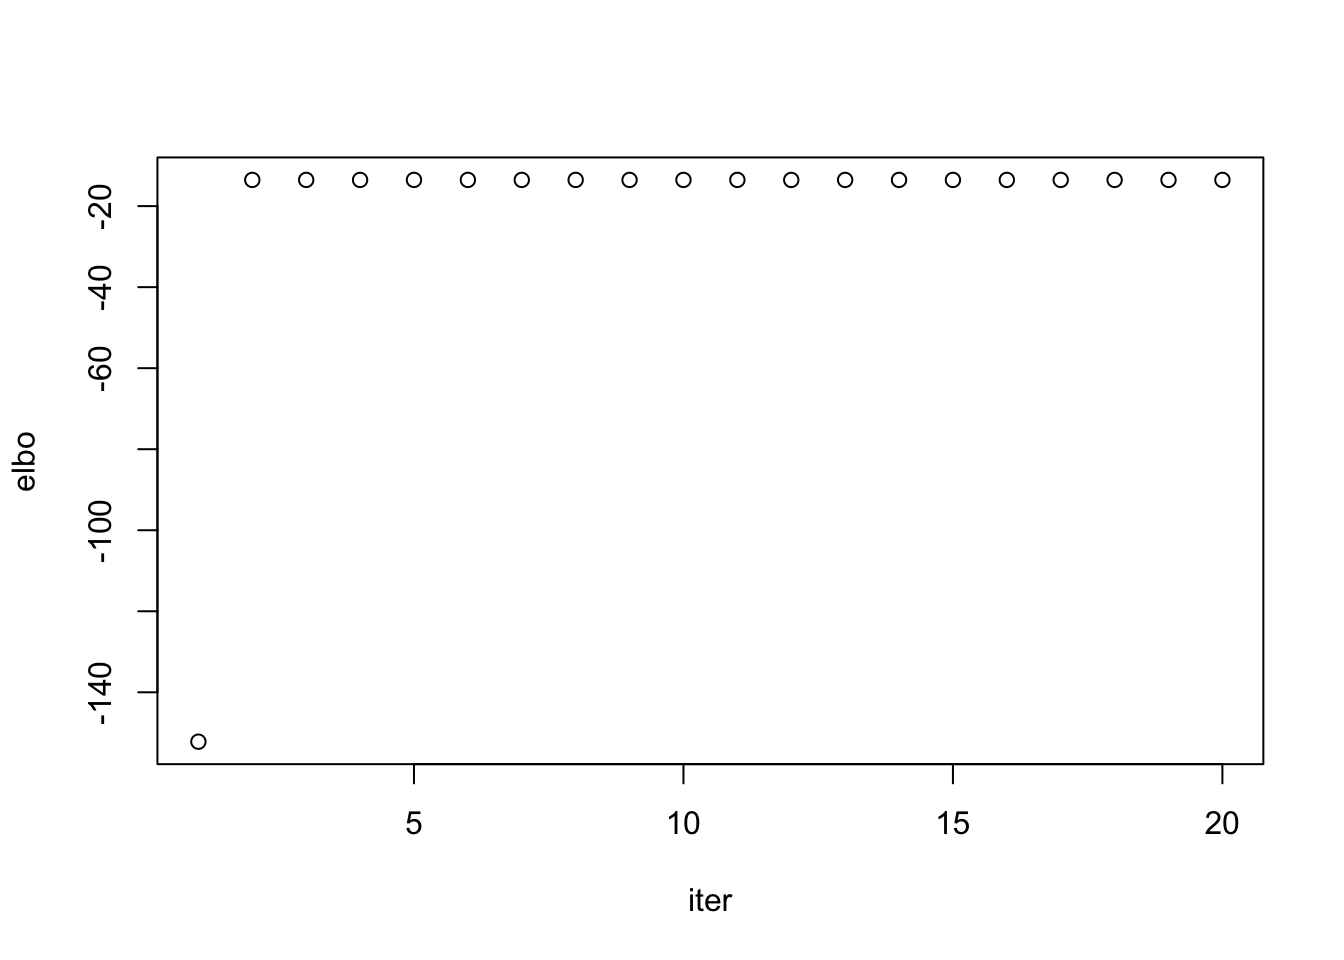
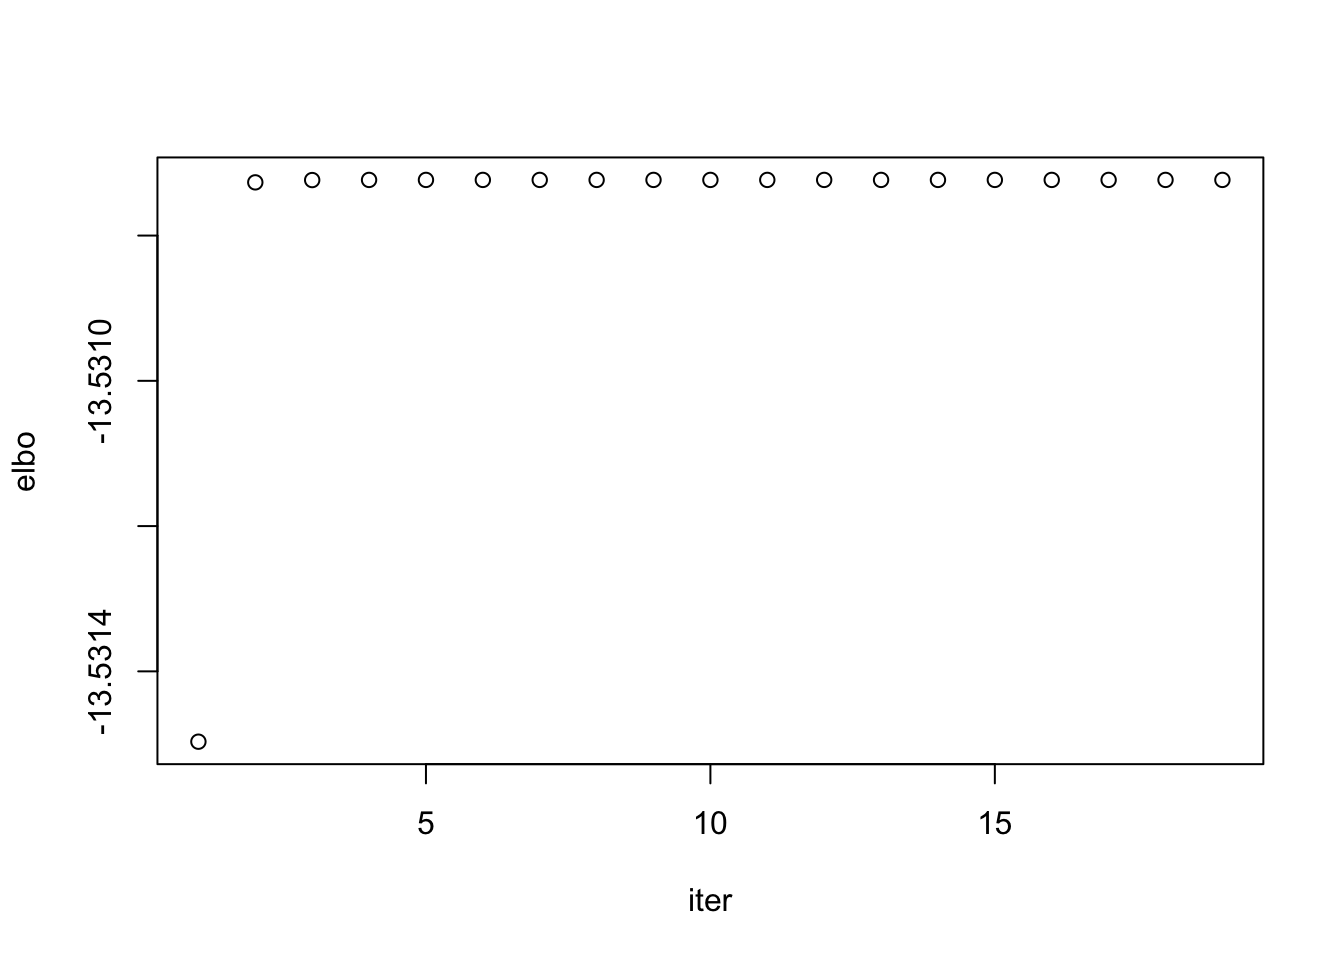
Build site.

diff --git a/docs/vi_poisson.html b/docs/vi_poisson.html
@@ -12,7 +12,7 @@
 <meta name="author" content="Yunqi Yang" />
 
 
-<title>Poisson_ser</title>
+<title>Poisson SER</title>
 
 <script src="site_libs/header-attrs-2.11/header-attrs.js"></script>
 <script src="site_libs/jquery-3.6.0/jquery-3.6.0.min.js"></script>
@@ -357,7 +357,7 @@ div.tocify {
 
 
 
-<h1 class="title toc-ignore">Poisson_ser</h1>
+<h1 class="title toc-ignore">Poisson SER</h1>
 <h4 class="author">Yunqi Yang</h4>
 <h4 class="date">5/2/2023</h4>
 
@@ -499,16 +499,16 @@ code/vi_poisson.R
 <div class="panel panel-default">
 <div class="panel-heading">
 <p class="panel-title">
-<a data-toggle="collapse" data-parent="#workflowr-checks" href="#strongRepositoryversionstrongahrefhttpsgithubcomyunqiyang0215survivalsusietreebb2de3625878aeae94a46305b9c50abcb13bb4bctargetblankbb2de36a"> <span class="glyphicon glyphicon-ok text-success" aria-hidden="true"></span> <strong>Repository version:</strong> <a href="https://github.com/yunqiyang0215/survival-susie/tree/bb2de3625878aeae94a46305b9c50abcb13bb4bc" target="_blank">bb2de36</a> </a>
+<a data-toggle="collapse" data-parent="#workflowr-checks" href="#strongRepositoryversionstrongahrefhttpsgithubcomyunqiyang0215survivalsusietree420b62315f176633e1db8b21d7dbdd77cd8cf3b8targetblank420b623a"> <span class="glyphicon glyphicon-ok text-success" aria-hidden="true"></span> <strong>Repository version:</strong> <a href="https://github.com/yunqiyang0215/survival-susie/tree/420b62315f176633e1db8b21d7dbdd77cd8cf3b8" target="_blank">420b623</a> </a>
 </p>
 </div>
[2 lines of base64/hex data omitted]
 <div class="panel-body">
 <p>
 Great! You are using Git for version control. Tracking code development and connecting the code version to the results is critical for reproducibility.
 </p>
 <p>
-The results in this page were generated with repository version <a href="https://github.com/yunqiyang0215/survival-susie/tree/bb2de3625878aeae94a46305b9c50abcb13bb4bc" target="_blank">bb2de36</a>. See the <em>Past versions</em> tab to see a history of the changes made to the R Markdown and HTML files.
+The results in this page were generated with repository version <a href="https://github.com/yunqiyang0215/survival-susie/tree/420b62315f176633e1db8b21d7dbdd77cd8cf3b8" target="_blank">420b623</a>. See the <em>Past versions</em> tab to see a history of the changes made to the R Markdown and HTML files.
 </p>
 <p>
 Note that you need to be careful to ensure that all relevant files for the analysis have been committed to Git prior to generating the results (you can use <code>wflow_publish</code> or <code>wflow_git_commit</code>). workflowr only checks the R Markdown file, but you know if there are other scripts or data files that it depends on. Below is the status of the Git repository when the results were generated:
@@ -576,6 +576,40 @@ Message
 </tr>
 </thead>
 <tbody>
+<tr>
+<td>
+Rmd
+</td>
+<td>
+<a href="https://github.com/yunqiyang0215/survival-susie/blob/420b62315f176633e1db8b21d7dbdd77cd8cf3b8/analysis/vi_poisson.Rmd" target="_blank">420b623</a>
+</td>
+<td>
+yunqiyang0215
+</td>
+<td>
+2023-05-04
+</td>
+<td>
+wflow_publish("analysis/vi_poisson.Rmd")
+</td>
+</tr>
+<tr>
+<td>
+html
+</td>
+<td>
+<a href="https://rawcdn.githack.com/yunqiyang0215/survival-susie/be72b9228244529606cc82db8a8cfee390ee96d3/docs/vi_poisson.html" target="_blank">be72b92</a>
+</td>
+<td>
+yunqiyang0215
+</td>
+<td>
+2023-05-04
+</td>
+<td>
+Build site.
+</td>
+</tr>
 <tr>
 <td>
 Rmd
@@ -666,8 +700,45 @@ tail(result$alpha)</code></pre>
 [18,] 0.03474685 0.05694682 0.06156505 0.03536832 0.03734782
 [19,] 0.03474685 0.05694683 0.06156505 0.03536832 0.03734782
 [20,] 0.03474685 0.05694683 0.06156505 0.03536832 0.03734782</code></pre>
-<pre class="r"><code>plot(result$elbo, xlab = &quot;iter&quot;, ylab = &quot;elbo&quot;)</code></pre>
+<pre class="r"><code>plot(result$elbo[-1], xlab = &quot;iter&quot;, ylab = &quot;elbo&quot;)</code></pre>
 <p><img src="figure/vi_poisson.Rmd/unnamed-chunk-4-1.png" width="672" style="display: block; margin: auto;" /></p>
+<p>
+<button type="button" class="btn btn-default btn-xs btn-workflowr btn-workflowr-fig" data-toggle="collapse" data-target="#fig-unnamed-chunk-4-1">
+Past versions of unnamed-chunk-4-1.png
+</button>
+</p>
+<div id="fig-unnamed-chunk-4-1" class="collapse">
+<div class="table-responsive">
+<table class="table table-condensed table-hover">
+<thead>
+<tr>
+<th>
+Version
+</th>
+<th>
+Author
+</th>
+<th>
+Date
+</th>
+</tr>
+</thead>
+<tbody>
+<tr>
+<td>
+<a href="https://github.com/yunqiyang0215/survival-susie/blob/be72b9228244529606cc82db8a8cfee390ee96d3/docs/figure/vi_poisson.Rmd/unnamed-chunk-4-1.png" target="_blank">be72b92</a>
+</td>
+<td>
+yunqiyang0215
+</td>
+<td>
+2023-05-04
+</td>
+</tr>
+</tbody>
+</table>
+</div>
+</div>
 </div>
 <div id="simulation-2" class="section level1">
 <h1>Simulation 2</h1>
@@ -748,8 +819,45 @@ tail(result$alpha)</code></pre>
 [18,] 0.01831634 0.01577252 0.004995734 0.01377199
 [19,] 0.01831634 0.01577252 0.004995734 0.01377199
 [20,] 0.01831634 0.01577252 0.004995734 0.01377199</code></pre>
-<pre class="r"><code>plot(result$elbo, xlab = &quot;iter&quot;, ylab = &quot;elbo&quot;)</code></pre>
+<pre class="r"><code>plot(result$elbo[-1], xlab = &quot;iter&quot;, ylab = &quot;elbo&quot;)</code></pre>
 <p><img src="figure/vi_poisson.Rmd/unnamed-chunk-7-1.png" width="672" style="display: block; margin: auto;" /></p>
+<p>
+<button type="button" class="btn btn-default btn-xs btn-workflowr btn-workflowr-fig" data-toggle="collapse" data-target="#fig-unnamed-chunk-7-1">
+Past versions of unnamed-chunk-7-1.png
+</button>
+</p>
+<div id="fig-unnamed-chunk-7-1" class="collapse">
+<div class="table-responsive">
+<table class="table table-condensed table-hover">
+<thead>
+<tr>
+<th>
+Version
+</th>
+<th>
+Author
+</th>
+<th>
+Date
+</th>
+</tr>
+</thead>
+<tbody>
+<tr>
+<td>
+<a href="https://github.com/yunqiyang0215/survival-susie/blob/be72b9228244529606cc82db8a8cfee390ee96d3/docs/figure/vi_poisson.Rmd/unnamed-chunk-7-1.png" target="_blank">be72b92</a>
+</td>
+<td>
+yunqiyang0215
+</td>
+<td>
+2023-05-04
+</td>
+</tr>
+</tbody>
+</table>
+</div>
+</div>
 </div>
 <div id="simulation-3" class="section level1">
 <h1>Simulation 3</h1>
@@ -830,8 +938,45 @@ tail(result$alpha)</code></pre>
 [18,] 0.03945907 0.05642541 0.02998278 0.06972517
 [19,] 0.03945907 0.05642541 0.02998278 0.06972517
 [20,] 0.03945907 0.05642541 0.02998278 0.06972517</code></pre>
-<pre class="r"><code>plot(result$elbo, xlab = &quot;iter&quot;, ylab = &quot;elbo&quot;)</code></pre>
+<pre class="r"><code>plot(result$elbo[-1], xlab = &quot;iter&quot;, ylab = &quot;elbo&quot;)</code></pre>
 <p><img src="figure/vi_poisson.Rmd/unnamed-chunk-10-1.png" width="672" style="display: block; margin: auto;" /></p>
+<p>
+<button type="button" class="btn btn-default btn-xs btn-workflowr btn-workflowr-fig" data-toggle="collapse" data-target="#fig-unnamed-chunk-10-1">
+Past versions of unnamed-chunk-10-1.png
+</button>
+</p>
+<div id="fig-unnamed-chunk-10-1" class="collapse">
+<div class="table-responsive">
+<table class="table table-condensed table-hover">
+<thead>
+<tr>
+<th>
+Version
+</th>
+<th>
+Author
+</th>
+<th>
+Date
+</th>
+</tr>
+</thead>
+<tbody>
+<tr>
+<td>
+<a href="https://github.com/yunqiyang0215/survival-susie/blob/be72b9228244529606cc82db8a8cfee390ee96d3/docs/figure/vi_poisson.Rmd/unnamed-chunk-10-1.png" target="_blank">be72b92</a>
+</td>
+<td>
+yunqiyang0215
+</td>
+<td>
+2023-05-04
+</td>
+</tr>
+</tbody>
+</table>
+</div>
+</div>
 <br>
 <p>
 <button type="button" class="btn btn-default btn-workflowr btn-workflowr-sessioninfo" data-toggle="collapse" data-target="#workflowr-sessioninfo" style="display: block;">
